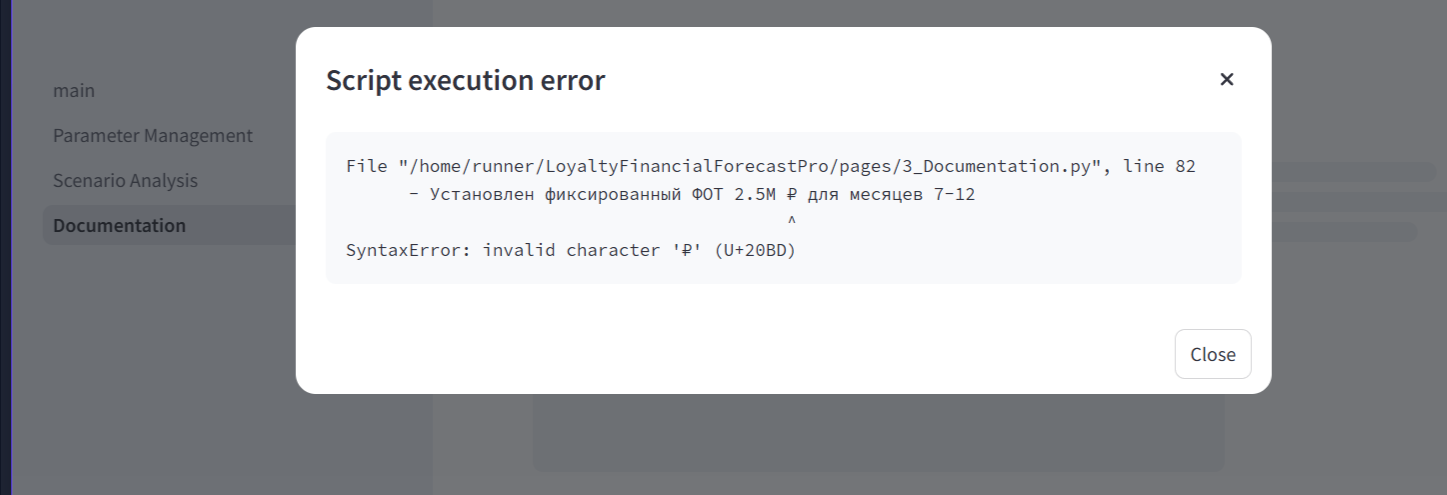
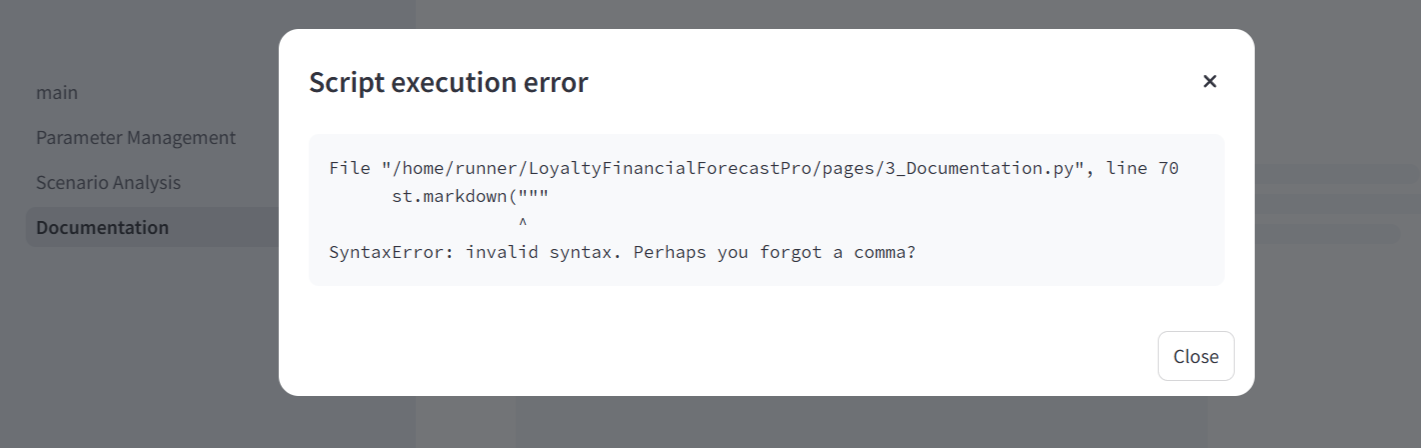
Agent query: Проверьте, пожалуйста, исправлена ли ошибка в документации и корректно ли отображается раздел с изменениями ФОТ?
Update financial model documentation with new parameters and translated text, including a revised payroll expense calculation.

Screenshot: https://storage.googleapis.com/screenshot-production-us-central1/f5e095a3-f525-4b15-8ae3-3ce0f434ca6e/e5042524-0169-441a-956a-173f5ab3a5c5.jpg

Changed region(s): [[0.0, 0.0, 0.898, 1.0], [0.2167, 0.0312, 0.867, 0.0625]]

diff --git a/pages/3_Documentation.py b/pages/3_Documentation.py
@@ -1,86 +1,37 @@
 import streamlit as st
+from utils.translations import get_translation
 
 def documentation_page():
-    st.title("Parameter Documentation")
+    st.title("Документация по финансовой модели")
     
     st.markdown("""
-    ## Revenue Parameters
+    ## Основные компоненты расчета
     
-    ### Commission Revenue
-    - **Commission Rate**: Percentage of transaction value charged as commission
-    - **Monthly Transaction Volume**: Total value of transactions processed per month
-    - **Transaction Growth Rate**: Monthly growth rate of transaction volume
+    ### Расчет выручки
+    1. Комиссионная выручка = (Используемые баллы × Комиссия обмена) + (Начисленный кэшбэк × Комиссия начисления)
+    2. Выручка от подписок = Количество подписчиков × Стоимость подписки
+    3. Общая выручка = Комиссионная выручка + Выручка от подписок + Рекламная выручка
     
-    ### Subscription Revenue
-    - **Initial Subscribers**: Number of subscribers at the start
-    - **Subscriber Growth Rate**: Monthly growth rate of subscribers
-    - **Subscription Price**: Monthly subscription fee per user
+    ### Расчет расходов
+    1. Ежемесячные расходы = ФОТ + Маркетинг + Инфраструктура
+    2. Темпы роста применяются ежемесячно по формуле сложного роста
+    3. Общие расходы = Сумма всех категорий расходов
     
-    ### Advertising Revenue
-    - **Base Ad Revenue**: Initial monthly advertising revenue
-    - **Ad Revenue Growth Rate**: Monthly growth rate of advertising revenue
-    
-    ## Expense Parameters
-    
-    ### Payroll Expenses (ФОТ)
-    
-    Расходы на заработную плату (ФОТ) меняются в зависимости от периода:
-    
-    1. **Первые 6 месяцев (1-6)**: 
-       - Расходы отсутствуют (₽0)
-       - Период начального развития и тестирования
-    
-    2. **Второе полугодие (7-12 месяц)**:
-       - Фиксированная сумма ₽2,500,000 в месяц
-       - Начало активного найма и развития команды
-    
-    3. **Второй год (13-24 месяц)**:
-       - Увеличение до ₽4,000,000 в месяц
-       - Расширение команды для поддержки роста бизнеса
-    
-    > **Важно**: Эти значения являются базовыми и могут корректироваться в различных сценариях
-    
-    ### Marketing Expenses
-    - **Base Marketing Spend**: Initial monthly marketing budget
-    - **Marketing Growth Rate**: Monthly growth rate of marketing expenses
-    
-    ### Infrastructure Expenses
-    - **Base Infrastructure Cost**: Initial monthly infrastructure costs
-    - **Infrastructure Growth Rate**: Monthly growth rate of infrastructure costs
-    
-    ## Scenarios
-    
-    ### Pessimistic Scenario
-    - Lower growth rates
-    - Higher expenses
-    - Conservative revenue projections
-    
-    ### Standard Scenario
-    - Moderate growth rates
-    - Balanced expenses
-    - Realistic revenue projections
-    
-    ### Optimistic Scenario
-    - Higher growth rates
-    - Optimized expenses
-    - Aggressive revenue projections
+    ### Расчет прибыли
+    - Ежемесячная прибыль = Общая выручка - Общие расходы
+    - ROI = (Прибыль / Общие расходы) × 100
     """)
     
-    st.subheader("Calculation Methodology")
-    st.markdown("""
-    ### Revenue Calculations
-    1. Commission Revenue = Transaction Volume × Commission Rate
-    2. Subscription Revenue = Number of Subscribers × Subscription Price
     st.markdown("""
     ## История изменений модели
     
     ### Обновление от 16.12.2024
     
     #### Изменения в расчете ФОТ
-    - Реализована поэтапная система расчета ФОТ
-    - Добавлены нулевые расходы для первых 6 месяцев
-    - Установлен фиксированный ФОТ 2.5М руб. для месяцев 7-12
-    - Увеличен ФОТ до 4М руб. для второго года
+    - Реализована поэтапная система расчета ФОТ:
+      - Первые 6 месяцев: ФОТ = 0 руб.
+      - Месяцы 7-12: ФОТ = 2.5 млн руб.
+      - Второй год: ФОТ = 4 млн руб.
     
     #### Базовые параметры
     Оптимизирован набор базовых параметров:
@@ -90,18 +41,6 @@ def documentation_page():
     - Средний чек
     
     > **Примечание**: Данный раздел будет обновляться с каждым значительным изменением в модели
-    """)
-
-    3. Total Revenue = Commission Revenue + Subscription Revenue + Ad Revenue
-    
-    ### Expense Calculations
-    1. Monthly Expenses = Payroll + Marketing + Infrastructure
-    2. Growth rates are applied monthly using compound growth formula
-    3. Total Expenses = Sum of all expense categories
-    
-    ### Profit Calculation
-    - Monthly Profit = Total Revenue - Total Expenses
-    - ROI = (Profit / Total Expenses) × 100
     """)
 
 if __name__ == "__main__":
